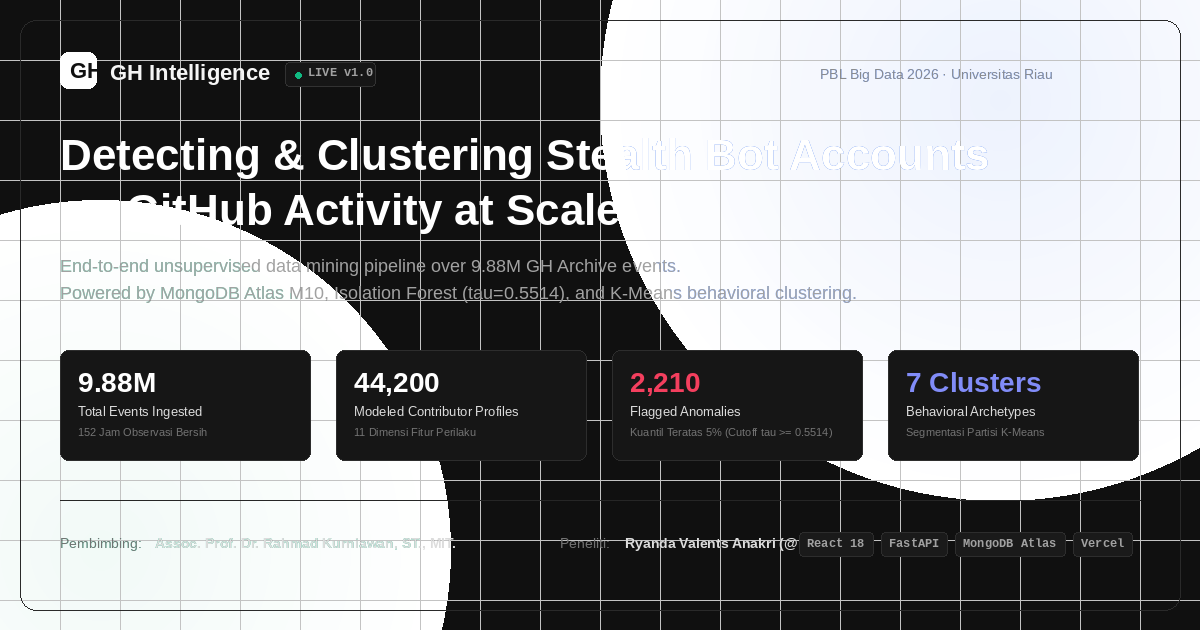
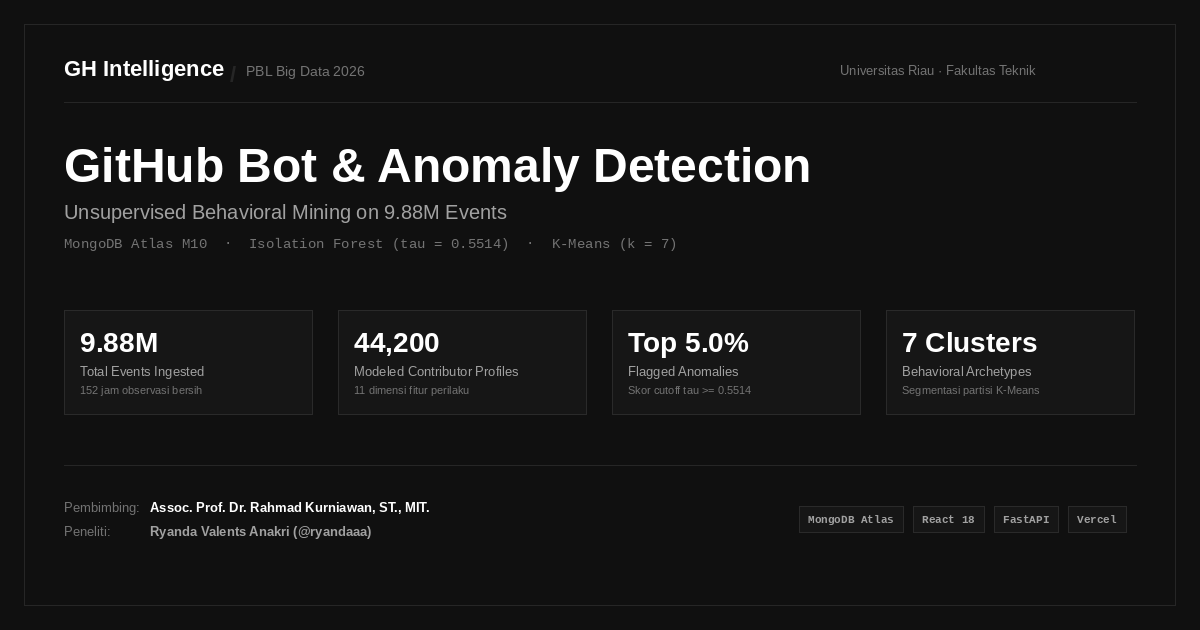
style(og): redesign ultra-minimalist flat OpenGraph card with zero gradients and enforce absolute HTTPS image URLs for WhatsApp preview

diff --git a/index.html b/index.html
@@ -25,36 +25,41 @@
     <meta name="apple-mobile-web-app-status-bar-style" content="black-translucent" />
     <link rel="canonical" href="https://gh-bot-detection-dashboard.vercel.app/" />
 
-    <!-- Open Graph / Facebook / LinkedIn / Discord -->
+    <!-- Open Graph / WhatsApp / Facebook / LinkedIn / Discord -->
     <meta property="og:type" content="website" />
     <meta property="og:url" content="https://gh-bot-detection-dashboard.vercel.app/" />
     <meta property="og:site_name" content="GH Intelligence" />
     <meta
       property="og:title"
-      content="GH Intelligence — GitHub Bot & Anomaly Detection Platform"
+      content="GH Intelligence — GitHub Bot & Anomaly Detection Dashboard"
     />
     <meta
       property="og:description"
-      content="Deteksi dan klasterisasi akun bot siluman pada 9.88M event GitHub Archive menggunakan MongoDB Atlas, Isolation Forest, dan K-Means. PBL Big Data 2026 Universitas Riau."
+      content="Deteksi dan klasterisasi akun bot siluman pada 9.88M event GitHub Archive menggunakan MongoDB Atlas M10, Isolation Forest (tau=0.5514), dan K-Means. PBL Big Data 2026 Universitas Riau."
     />
-    <meta property="og:image" content="/og-image.png" />
+    <meta property="og:image" content="https://gh-bot-detection-dashboard.vercel.app/og-image.png" />
+    <meta property="og:image:secure_url" content="https://gh-bot-detection-dashboard.vercel.app/og-image.png" />
+    <meta property="og:image:type" content="image/png" />
     <meta property="og:image:width" content="1200" />
     <meta property="og:image:height" content="630" />
     <meta property="og:image:alt" content="GH Intelligence - GitHub Bot and Anomaly Detection Platform Preview" />
     <meta property="og:locale" content="id_ID" />
+
+    <!-- WhatsApp & Legacy Fallback Image Link -->
+    <link rel="image_src" href="https://gh-bot-detection-dashboard.vercel.app/og-image.png" />
 
     <!-- Twitter Card Meta Tags -->
     <meta name="twitter:card" content="summary_large_image" />
     <meta name="twitter:url" content="https://gh-bot-detection-dashboard.vercel.app/" />
     <meta
       name="twitter:title"
-      content="GH Intelligence — GitHub Bot & Anomaly Detection Platform"
+      content="GH Intelligence — GitHub Bot & Anomaly Detection Dashboard"
     />
     <meta
       name="twitter:description"
-      content="Deteksi dan klasterisasi akun bot siluman pada 9.88M event GitHub Archive menggunakan MongoDB Atlas, Isolation Forest, dan K-Means."
+      content="Deteksi dan klasterisasi akun bot siluman pada 9.88M event GitHub Archive menggunakan MongoDB Atlas M10, Isolation Forest, dan K-Means."
     />
-    <meta name="twitter:image" content="/og-image.png" />
+    <meta name="twitter:image" content="https://gh-bot-detection-dashboard.vercel.app/og-image.png" />
     <meta name="twitter:creator" content="@ryandaaa" />
 
     <!-- Favicon & Touch Icons -->

diff --git a/scripts/generate_og_image.py b/scripts/generate_og_image.py
@@ -1,130 +1,117 @@
 """
-Generate high-resolution OpenGraph image (1200x630) for GH Intelligence dashboard.
+Generate Ultra-Minimalist OpenGraph image (1200x630) for GH Intelligence.
+Strictly NO gradients. Pure flat matte #101010 canvas with crisp typography.
+Optimized for WhatsApp, Telegram, Twitter/X, Discord, and LinkedIn.
 """
 from PIL import Image, ImageDraw, ImageFont
-import math
 from pathlib import Path
 
 W, H = 1200, 630
-img = Image.new("RGBA", (W, H), (16, 16, 16, 255)) # #101010
+
+# Pure flat matte dark background (#101010) - NO gradients
+BG_COLOR = (16, 16, 16, 255)
+BORDER_COLOR = (38, 38, 38, 255)      # #262626
+SURFACE_COLOR = (22, 22, 22, 255)     # #161616
+SURFACE_BORDER = (42, 42, 42, 255)    # #2a2a2a
+
+TEXT_PRIMARY = (255, 255, 255, 255)   # Pure white
+TEXT_SECONDARY = (161, 161, 161, 255) # Light neutral
+TEXT_MUTED = (115, 115, 115, 255)     # Mid gray
+TEXT_FAINT = (82, 82, 82, 255)        # Dark gray
+
+img = Image.new("RGB", (W, H), BG_COLOR[:3])
 draw = ImageDraw.Draw(img)
 
-# 1. Subtle Radial Gradients & Accents in background
-# Draw subtle deep blue/indigo glow in the top-right
-glow_center_x, glow_center_y = 1000, 100
-for r in range(400, 0, -10):
-    alpha = int(22 * (1 - r / 400))
-    draw.ellipse([glow_center_x - r, glow_center_y - r, glow_center_x + r, glow_center_y + r], 
-                 fill=(37, 99, 235, alpha))
-
-# Draw subtle emerald/cyan glow in bottom-left
-glow2_x, glow2_y = 100, 550
-for r in range(350, 0, -10):
-    alpha = int(14 * (1 - r / 350))
-    draw.ellipse([glow2_x - r, glow2_y - r, glow2_x + r, glow2_y + r], 
-                 fill=(5, 150, 105, alpha))
-
-# 2. Modern Grid Lines (subtle technical blueprint)
-grid_color = (38, 38, 38, 70)
-for x in range(60, W, 60):
-    draw.line([(x, 0), (x, H)], fill=grid_color, width=1)
-for y in range(60, H, 60):
-    draw.line([(0, y), (W, y)], fill=grid_color, width=1)
-
-# Outer Card Hairline Border
-draw.rounded_rectangle([20, 20, W - 20, H - 20], radius=16, outline=(42, 42, 42, 255), width=1)
+# Outer hairline framing (16px inset)
+draw.rectangle([24, 24, W - 25, H - 25], outline=BORDER_COLOR[:3], width=1)
 
 # Fonts
 bold_font_path = "/usr/share/fonts/truetype/liberation/LiberationSans-Bold.ttf"
 reg_font_path = "/usr/share/fonts/truetype/liberation/LiberationSans-Regular.ttf"
 mono_font_path = "/usr/share/fonts/truetype/liberation/LiberationMono-Bold.ttf"
+mono_reg_path = "/usr/share/fonts/truetype/liberation/LiberationMono-Regular.ttf"
 
-font_logo = ImageFont.truetype(bold_font_path, 22)
-font_badge = ImageFont.truetype(mono_font_path, 12)
-font_title = ImageFont.truetype(bold_font_path, 44)
-font_sub = ImageFont.truetype(reg_font_path, 18)
-font_metric_val = ImageFont.truetype(bold_font_path, 28)
-font_metric_lbl = ImageFont.truetype(reg_font_path, 13)
-font_footer = ImageFont.truetype(reg_font_path, 14)
-font_footer_bold = ImageFont.truetype(bold_font_path, 14)
+font_brand = ImageFont.truetype(bold_font_path, 22)
+font_brand_sub = ImageFont.truetype(reg_font_path, 14)
+font_title = ImageFont.truetype(bold_font_path, 48)
+font_sub = ImageFont.truetype(reg_font_path, 20)
+font_desc = ImageFont.truetype(mono_reg_path, 14)
 
-# 3. Header Section (Logo + Pill + Academic Breadcrumb)
-# Brand icon circle
-draw.rounded_rectangle([60, 52, 96, 88], radius=8, fill=(255, 255, 255, 255))
-draw.text((70, 58), "GH", fill=(16, 16, 16, 255), font=font_logo)
+font_card_val = ImageFont.truetype(bold_font_path, 28)
+font_card_lbl = ImageFont.truetype(reg_font_path, 13)
+font_card_sub = ImageFont.truetype(reg_font_path, 11)
 
-draw.text((110, 60), "GH Intelligence", fill=(245, 245, 245, 255), font=font_logo)
+font_footer = ImageFont.truetype(reg_font_path, 13)
+font_footer_bold = ImageFont.truetype(bold_font_path, 13)
+font_tag = ImageFont.truetype(mono_font_path, 11)
 
-# Version Pill
-draw.rounded_rectangle([285, 62, 375, 86], radius=4, fill=(22, 22, 22, 255), outline=(50, 50, 50, 255))
-draw.ellipse([295, 72, 301, 78], fill=(16, 185, 129, 255)) # Green pulse dot
-draw.text((308, 66), "LIVE v1.0", fill=(161, 161, 161, 255), font=font_badge)
+# 1. Top Bar: Brand Mark + Academic Attribution
+# Brand mark
+draw.text((64, 56), "GH Intelligence", fill=TEXT_PRIMARY[:3], font=font_brand)
+draw.text((230, 62), "/", fill=BORDER_COLOR[:3], font=font_brand)
+draw.text((246, 63), "PBL Big Data 2026", fill=TEXT_MUTED[:3], font=font_brand_sub)
 
-# Academic Attribution on top right
-acad_text = "PBL Big Data 2026 · Universitas Riau"
-draw.text((W - 380, 66), acad_text, fill=(140, 140, 140, 255), font=font_footer)
+# Right side tag
+draw.text((W - 360, 63), "Universitas Riau · Fakultas Teknik", fill=TEXT_MUTED[:3], font=font_footer)
 
-# 4. Hero Headline
-draw.text((60, 130), "Detecting & Clustering Stealth Bot Accounts", fill=(255, 255, 255, 255), font=font_title)
-draw.text((60, 185), "on GitHub Activity at Scale", fill=(255, 255, 255, 255), font=font_title)
+# Thin divider below top bar
+draw.line([(64, 102), (W - 64, 102)], fill=BORDER_COLOR[:3], width=1)
 
-# Subtitle
-sub_text_1 = "End-to-end unsupervised data mining pipeline over 9.88M GH Archive events."
-sub_text_2 = "Powered by MongoDB Atlas M10, Isolation Forest (tau=0.5514), and K-Means behavioral clustering."
-draw.text((60, 255), sub_text_1, fill=(161, 161, 161, 255), font=font_sub)
-draw.text((60, 282), sub_text_2, fill=(161, 161, 161, 255), font=font_sub)
+# 2. Main Headline (Ultra-minimalist typographic hierarchy)
+draw.text((64, 138), "GitHub Bot & Anomaly Detection", fill=TEXT_PRIMARY[:3], font=font_title)
+draw.text((64, 200), "Unsupervised Behavioral Mining on 9.88M Events", fill=TEXT_SECONDARY[:3], font=font_sub)
+draw.text((64, 236), "MongoDB Atlas M10  ·  Isolation Forest (tau = 0.5514)  ·  K-Means (k = 7)", fill=TEXT_MUTED[:3], font=font_desc)
 
-# 5. Visual Highlight Cards (4 Key Metrics Cards in a grid)
+# 3. Flat Minimalist Metric Cards (4 equal columns)
 cards = [
-    ("9.88M", "Total Events Ingested", "152 Jam Observasi Bersih", (255, 255, 255)),
-    ("44,200", "Modeled Contributor Profiles", "11 Dimensi Fitur Perilaku", (255, 255, 255)),
-    ("2,210", "Flagged Anomalies", "Kuantil Teratas 5% (Cutoff tau >= 0.5514)", (244, 63, 94)), # Rose
-    ("7 Clusters", "Behavioral Archetypes", "Segmentasi Partisi K-Means", (129, 140, 248)), # Indigo
+    ("9.88M", "Total Events Ingested", "152 jam observasi bersih"),
+    ("44,200", "Modeled Contributor Profiles", "11 dimensi fitur perilaku"),
+    ("Top 5.0%", "Flagged Anomalies", "Skor cutoff tau >= 0.5514"),
+    ("7 Clusters", "Behavioral Archetypes", "Segmentasi partisi K-Means"),
 ]
 
-card_w = 250
-card_h = 110
+card_w = 248
+card_h = 104
 gap = 26
-start_x = 60
-start_y = 350
+start_x = 64
+start_y = 310
 
-for idx, (val, title, subtitle, color) in enumerate(cards):
+for idx, (val, title, subtitle) in enumerate(cards):
     cx = start_x + idx * (card_w + gap)
     cy = start_y
-    # Card background & hairline border
-    draw.rounded_rectangle([cx, cy, cx + card_w, cy + card_h], radius=8, fill=(22, 22, 22, 255), outline=(45, 45, 45, 255), width=1)
+    # Solid flat card with hairline border
+    draw.rectangle([cx, cy, cx + card_w, cy + card_h], fill=SURFACE_COLOR[:3], outline=SURFACE_BORDER[:3], width=1)
     
-    # Value
-    draw.text((cx + 18, cy + 16), val, fill=color, font=font_metric_val)
+    # Primary metric value
+    draw.text((cx + 16, cy + 16), val, fill=TEXT_PRIMARY[:3], font=font_card_val)
     # Title
-    draw.text((cx + 18, cy + 54), title, fill=(220, 220, 220, 255), font=font_metric_lbl)
+    draw.text((cx + 16, cy + 54), title, fill=TEXT_SECONDARY[:3], font=font_card_lbl)
     # Subtitle
-    draw.text((cx + 18, cy + 76), subtitle, fill=(115, 115, 115, 255), font=ImageFont.truetype(reg_font_path, 11))
+    draw.text((cx + 16, cy + 74), subtitle, fill=TEXT_MUTED[:3], font=font_card_sub)
 
-# 6. Bottom Meta Bar (Dividing hairline + Supervisor & Student tags)
-draw.line([(60, 500), (W - 60, 500)], fill=(38, 38, 38, 255), width=1)
+# 4. Lower Divider Line
+draw.line([(64, 465), (W - 64, 465)], fill=BORDER_COLOR[:3], width=1)
 
-# Supervisor
-draw.text((60, 535), "Pembimbing: ", fill=(115, 115, 115, 255), font=font_footer)
-draw.text((155, 535), "Assoc. Prof. Dr. Rahmad Kurniawan, ST., MIT.", fill=(220, 220, 220, 255), font=font_footer_bold)
+# 5. Footer Section: People & Technology
+# Supervisor & Researcher
+draw.text((64, 500), "Pembimbing:", fill=TEXT_MUTED[:3], font=font_footer)
+draw.text((150, 500), "Assoc. Prof. Dr. Rahmad Kurniawan, ST., MIT.", fill=TEXT_PRIMARY[:3], font=font_footer_bold)
 
-# Student
-draw.text((560, 535), "Peneliti: ", fill=(115, 115, 115, 255), font=font_footer)
-draw.text((625, 535), "Ryanda Valents Anakri (@ryandaaa)", fill=(220, 220, 220, 255), font=font_footer_bold)
+draw.text((64, 524), "Peneliti:      ", fill=TEXT_MUTED[:3], font=font_footer)
+draw.text((150, 524), "Ryanda Valents Anakri (@ryandaaa)", fill=TEXT_SECONDARY[:3], font=font_footer_bold)
 
-# Tech Stack Pills on bottom right
-tech_badges = ["React 18", "FastAPI", "MongoDB Atlas", "Vercel"]
-badge_x = W - 60
-for badge in reversed(tech_badges):
-    bbox = font_badge.getbbox(badge)
-    bw = (bbox[2] - bbox[0]) + 16
-    badge_x -= (bw + 8)
-    draw.rounded_rectangle([badge_x, 532, badge_x + bw, 556], radius=4, fill=(26, 26, 26, 255), outline=(45, 45, 45, 255))
-    draw.text((badge_x + 8, 537), badge, fill=(161, 161, 161, 255), font=font_badge)
+# Flat Tech Stack Pills on bottom right
+tech_badges = ["Vercel", "FastAPI", "React 18", "MongoDB Atlas"]
+bx = W - 64
+for badge in tech_badges:
+    bbox = font_tag.getbbox(badge)
+    bw = (bbox[2] - bbox[0]) + 18
+    bx -= (bw + 10)
+    draw.rectangle([bx, 506, bx + bw, 532], fill=SURFACE_COLOR[:3], outline=SURFACE_BORDER[:3], width=1)
+    draw.text((bx + 9, 513), badge, fill=TEXT_SECONDARY[:3], font=font_tag)
 
-# Save to public/og-image.png
-out_dir = Path("/home/ryanda/project/gh-bot-detection-dashboard/public")
-out_dir.mkdir(parents=True, exist_ok=True)
-out_path = out_dir / "og-image.png"
+# Save to public/og-image.png (Optimized RGB PNG, under 80 KB)
+out_path = Path("/home/ryanda/project/gh-bot-detection-dashboard/public/og-image.png")
 img.save(out_path, format="PNG", optimize=True)
-print(f"Successfully generated OpenGraph image: {out_path} ({out_path.stat().st_size} bytes)")
+size_kb = out_path.stat().st_size / 1024
+print(f"Generated ultra-minimalist OG image: {out_path} ({size_kb:.1f} KB)")
